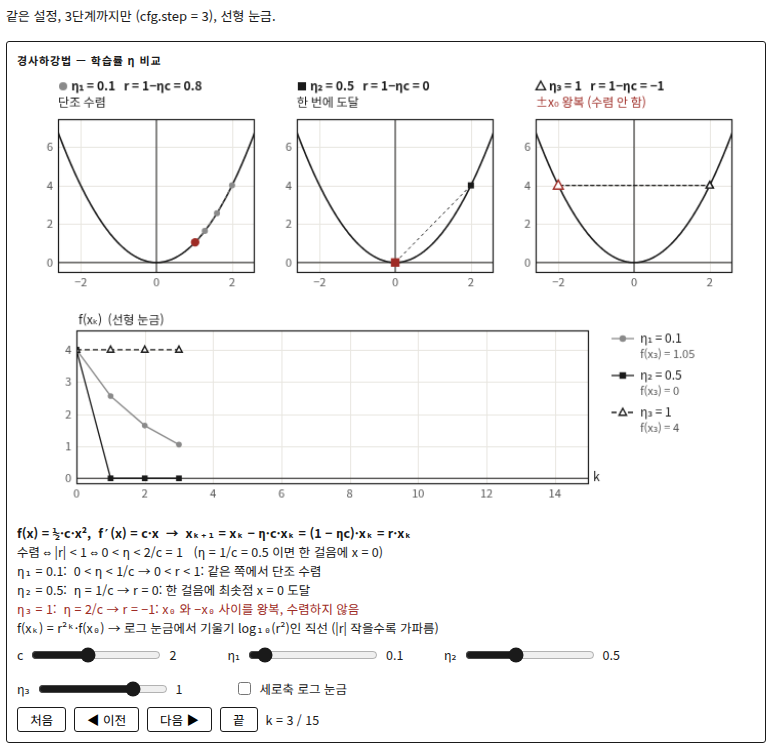
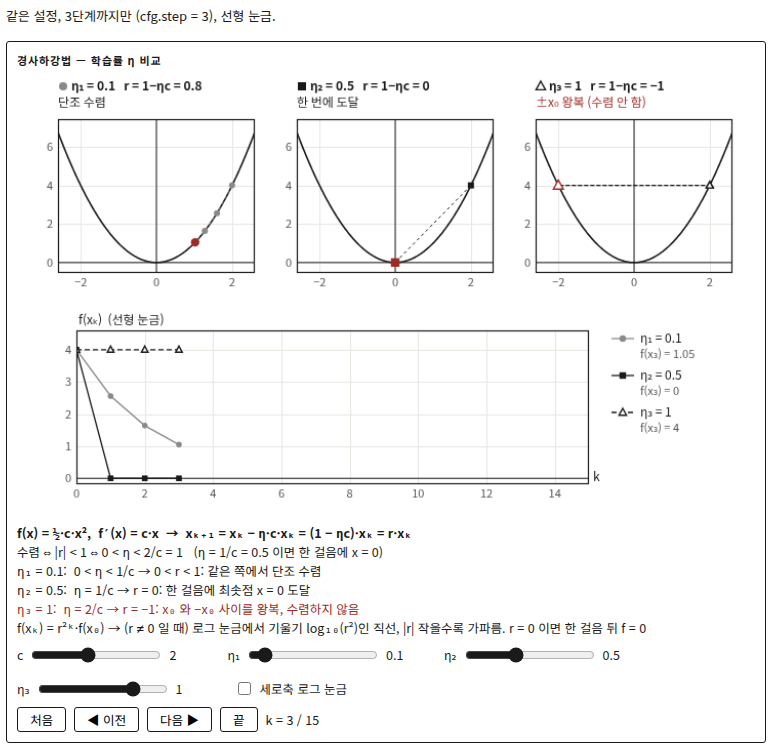
v6 extra B: review fixes (differentiability probe, quartic header, wording), report

Changed region(s): [[0.1554, 0.8302, 0.6528, 0.861], [0.6839, 0.8302, 0.8394, 0.861]]

diff --git a/assets/v6-extra-b.js b/assets/v6-extra-b.js
@@ -61,11 +61,12 @@ function checkExpr(src,vars){
 }
 /* ---- gradient descent ---- */
 /* iterate x_{k+1} = x_k - eta*df(x_k); stop when |x|>cap (diverged) or value undefined */
-function gd1(df,eta,x0,N,cap){
+function gd1(df,eta,x0,N,cap,f){
   var xs=[x0],status="ok",at=-1;
   for(var k=0;k<N;k++){
     var g=df(xs[k]),nx=xs[k]-eta*g;
     if(g!==g||nx!==nx){status="undef";at=k+1;break;}
+    if(f&&isFinite(nx)&&Math.abs(nx)<=cap){var fv=f(nx);if(fv!==fv){xs.push(nx);status="undef";at=k+1;break;}}
     if(!isFinite(nx)||Math.abs(nx)>cap){xs.push(nx);status="div";at=k+1;break;}
     xs.push(nx);
   }
@@ -110,23 +111,34 @@ function itersFor(rho,tol){
 function grad(f,a,b){
   var hx=1e-5*Math.max(1,Math.abs(a)),hy=1e-5*Math.max(1,Math.abs(b));
   var fx=(f(a+hx,b)-f(a-hx,b))/(2*hx),fy=(f(a,b+hy)-f(a,b-hy))/(2*hy);
-  /* one-sided check (kinks such as sqrt(x²+y²) at 0) */
-  var h1=1e-6*Math.max(1,Math.abs(a)),h2=1e-6*Math.max(1,Math.abs(b)),f0=f(a,b);
-  var xf=(f(a+h1,b)-f0)/h1,xb=(f0-f(a-h1,b))/h1,yf=(f(a,b+h2)-f0)/h2,yb=(f0-f(a,b-h2))/h2;
-  var kink=Math.abs(xf-xb)>1e-2*(1+Math.abs(xf)+Math.abs(xb))||Math.abs(yf-yb)>1e-2*(1+Math.abs(yf)+Math.abs(yb));
+  /* one-sided check (kinks such as |x| at 0): forward − backward quotient gap is ≈ h·f″ for
+     smooth f (halves with h) but stays O(1) at a kink (does not shrink) */
+  var f0=f(a,b);
+  function gap(dx,dy){return (f(a+dx,b+dy)-f0)/Math.hypot(dx,dy)-(f0-f(a-dx,b-dy))/Math.hypot(dx,dy);}
+  var h1=1e-6*Math.max(1,Math.abs(a)),h2=1e-6*Math.max(1,Math.abs(b));
+  var kink=persists(gap(h1,0),gap(h1/2,0),f0,h1)||persists(gap(0,h2),gap(0,h2/2),f0,h2);
   return {fx:fx,fy:fy,kink:kink};
+}
+/* an O(h) discrepancy should halve when h halves; a real one (kink) does not */
+function persists(e1,e2,f0,h){
+  if(e1!==e1||e2!==e2)return true;
+  var noise=1e-6+4e-15*Math.abs(f0)/h;
+  return Math.abs(e1)>noise&&Math.abs(e2)>0.75*Math.abs(e1);
 }
 function dirDeriv(fx,fy,th){return fx*Math.cos(th)+fy*Math.sin(th);}
 /* one-sided difference quotient [f(P+hu) - f(P)]/h (the definition, h small) */
 function oneSided(f,a,b,th,h){h=h||1e-6*Math.max(1,Math.abs(a),Math.abs(b));return (f(a+h*Math.cos(th),b+h*Math.sin(th))-f(a,b))/h;}
 /* differentiability probe: does grad·u match the one-sided quotient in 16 directions? */
 function diffCheck(f,a,b,fx,fy){
-  var n=Math.hypot(fx,fy),worst=0;
-  for(var i=0;i<16;i++){var t=i*Math.PI/8,q=oneSided(f,a,b,t);
-    if(q!==q)return {ok:false,worst:NaN};
-    worst=Math.max(worst,Math.abs(q-dirDeriv(fx,fy,t)));}
-  return {ok:worst<=2e-3*(1+n),worst:worst};
+  var h=1e-6*Math.max(1,Math.abs(a),Math.abs(b)),f0=f(a,b),worst=0,bad=false;
+  for(var i=0;i<16;i++){var t=i*Math.PI/8,g=dirDeriv(fx,fy,t);
+    var e1=oneSided(f,a,b,t,h)-g,e2=oneSided(f,a,b,t,h/2)-g;
+    if(e1!==e1||e2!==e2)return {ok:false,worst:NaN};
+    worst=Math.max(worst,Math.abs(e1));
+    if(persists(e1,e2,f0,h))bad=true;}
+  return {ok:!bad,worst:worst};
 }
+function stepH(a,b){return 1e-6*Math.max(1,Math.abs(a),Math.abs(b));}
 /* ---- quadratic form Q = a x² + 2b xy + c y², matrix [[a,b],[b,c]] ---- */
 function eig2(a,b,c){
   var m=(a+c)/2,R=Math.hypot(a-c,2*b)/2,det=a*c-b*b,l1,l2;
@@ -158,7 +170,7 @@ function angleBetween(u,v){
   return Math.atan2(Math.abs(u[0]*v[1]-u[1]*v[0]),dot(u,v));
 }
 return {fmt:fmt,snap:snap,sup:sup,niceTicks:niceTicks,checkExpr:checkExpr,gd1:gd1,classifyQuadLR:classifyQuadLR,
-  gd2:gd2,f2:f2,rates2:rates2,itersFor:itersFor,grad:grad,dirDeriv:dirDeriv,oneSided:oneSided,diffCheck:diffCheck,eig2:eig2,Qval:Qval,
+  gd2:gd2,f2:f2,rates2:rates2,itersFor:itersFor,grad:grad,dirDeriv:dirDeriv,oneSided:oneSided,diffCheck:diffCheck,stepH:stepH,eig2:eig2,Qval:Qval,
   classifyQ:classifyQ,det2:det2,apply2:apply2,dot:dot,proj:proj,angleBetween:angleBetween};
 })();
 /*CALC-END*/
@@ -303,6 +315,12 @@ var LONG={
   bounce:"η = 2/c → r = −1: x₀ 와 −x₀ 사이를 왕복, 수렴하지 않음",
   div:"η > 2/c → r < −1: |xₖ| = |r|ᵏ|x₀| 로 진동하며 발산",
   zero:"η = 0: xₖ = x₀ 그대로",neg:"η < 0: 기울기 방향(오르막)으로 이동해 발산",badc:"c ≤ 0 이면 최솟값이 없음"};
+function quarticHead(eta,x0){
+  if(!(eta>0))return eta===0?"η = 0: 움직이지 않음":"η < 0: 오르막으로 이동";
+  if(x0===0)return "x₀ = 0: 이미 최솟점";
+  var p=eta*x0*x0,tol=1e-9;
+  return "ηx₀² = "+fmt(p,3)+(Math.abs(p-2)<tol?" = 2 (|x₁| = |x₀|)":p<2?" < 2 (|x₁| < |x₀|)":" > 2 (|x₁| > |x₀|)");
+}
 function gd1d(el,cfg){
   var kind=cfg.fn==="quartic"?"quartic":(cfg.fn==="custom"||(cfg.fn==null&&typeof cfg.f==="string"))?"custom":"quad";
   var c=num(cfg.c,2,0.1,50);
@@ -337,7 +355,8 @@ function gd1d(el,cfg){
   var st=stateBox(el);
   var ctl=controls(el);
   var cS=null;
-  if(kind==="quad")cS=slider(ctl,"c ",0.5,Math.max(4,c),0.1,c,function(v){return fmt(v,2);},function(v){c=v;setFns();draw();});
+  if(kind==="quad")cS=slider(ctl,"c ",Math.min(0.5,c),Math.max(4,c),0.1,c,function(v){return fmt(v,2);},function(v){c=v;setFns();
+    var top=parseFloat((Math.max(2.6/c,etas[0],etas[1],etas[2])).toPrecision(3));eS.forEach(function(sl){sl.range(0,top);});draw();});
   var eS=etas.map(function(e,i){return slider(ctl,"η"+sub(i+1)+" ",0,parseFloat(etaTop.toPrecision(3)),0.005,e,function(v){return fmt(v,3);},function(v){etas[i]=v;draw();});});
   var lg=document.createElement("label");var cb=document.createElement("input");cb.type="checkbox";cb.checked=logy;
   lg.appendChild(cb);lg.appendChild(document.createTextNode(" 세로축 로그 눈금"));ctl.appendChild(lg);
@@ -353,7 +372,7 @@ function gd1d(el,cfg){
   function draw(){
     ctx.clearRect(0,0,W,cv.height);
     pos.textContent="k = "+k+" / "+N;bPrev.disabled=k===0;bNext.disabled=k===N;
-    var runs=etas.map(function(e){return calc.gd1(df,e,x0,N,CAP);});
+    var runs=etas.map(function(e){return calc.gd1(df,e,x0,N,CAP,f);});
     /* ---- top: three curve panels ---- */
     var Rx=Math.max(Math.abs(x0)*1.3,0.5);
     var xr=Array.isArray(cfg.xr)&&cfg.xr.length===2&&isFinite(cfg.xr[0])&&isFinite(cfg.xr[1])&&cfg.xr[1]>cfg.xr[0]?[+cfg.xr[0],+cfg.xr[1]]:[-Rx,Rx];
@@ -373,7 +392,7 @@ function gd1d(el,cfg){
       if(cl)v2=VERDICT[cl.kind];
       else if(run.status==="div")v2="발산 (k = "+run.at+"에서 |x| > 10⁶)";
       else if(run.status==="undef")v2="k = "+run.at+"에서 값 정의 안 됨";
-      else v2=kind==="quartic"?"ηx₀² = "+fmt(etas[j]*x0*x0,3)+(etas[j]*x0*x0<2&&etas[j]>0?" < 2":" ≥ 2"):"x"+sub(N)+" = "+fmt(run.xs[run.xs.length-1],4);
+      else v2=kind==="quartic"?quarticHead(etas[j],x0):"x"+sub(N)+" = "+fmt(run.xs[run.xs.length-1],4);
       var bad=(cl&&(cl.kind==="div"||cl.kind==="bounce"||cl.kind==="neg"))||run.status!=="ok";
       text(ctx,v2,R.x,32,{size:12,color:bad?RED:INK,halo:false});
       P.clip();
@@ -425,6 +444,7 @@ function gd1d(el,cfg){
       var pts=[];
       for(var s=0;s<=Math.min(k,r.xs.length-1);s++){
         var v=f(r.xs[s]),X=PB.px(s),Y;
+        if(v!==v)break;
         if(useLog){if(v>0&&isFinite(v))Y=PB.py(Math.log10(v));else if(v===0){Y=RB.y+RB.h-4;zeroNote=true;}else Y=-1e4;}
         else Y=isFinite(v)?PB.py(v):-1e4;
         if(Y<RB.y+3)pinned=true;
@@ -456,7 +476,7 @@ function gd1d(el,cfg){
       etas.forEach(function(e,j){var cl=calc.classifyQuadLR(c,e);var s="η"+sub(j+1)+" = "+fmt(e,3)+":  "+LONG[cl.kind];
         if(cl.kind==="mono"&&cl.r>=0.9)s+=" — 느림 (단계당 오차 ×"+fmt(cl.r,3)+")";
         L.push(cl.kind==="div"||cl.kind==="bounce"||cl.kind==="neg"?red(s):s);});
-      L.push("f(xₖ) = r²ᵏ·f(x₀) → 로그 눈금에서 기울기 log₁₀(r²)인 직선 (|r| 작을수록 가파름)");
+      L.push("f(xₖ) = r²ᵏ·f(x₀) → (r ≠ 0 일 때) 로그 눈금에서 기울기 log₁₀(r²)인 직선, |r| 작을수록 가파름. r = 0 이면 한 걸음 뒤 f = 0");
     }else if(kind==="quartic"){
       L.push(b(fLabel+",  "+dfLabel+"  →  xₖ₊₁ = xₖ(1 − η·xₖ²)"));
       L.push("|xₖ₊₁| < |xₖ| ⇔ 0 < η·xₖ² < 2.  기준이 xₖ에 따라 달라짐 — ‘η < 2/c’ 같은 고정 기준은 이차함수에서만 정확");
@@ -474,7 +494,7 @@ function gd1d(el,cfg){
   draw();return draw;
 }
 function gd2d(el,cfg,withHead){
-  if(withHead)sectionHead(el,"2차원: f(x, y) = ½(x² + κy²) — 조건수 κ가 크면 지그재그");
+  if(withHead)sectionHead(el,"2차원: f(x, y) = ½(x² + κy²) — ηκ > 1 이면 y 부호가 바뀌며 지그재그, κ가 크면 느림");
   var kappa=num(cfg.kappa,10,1,100);
   var st0=Array.isArray(cfg.start2d)?cfg.start2d:[];
   var X0=num(st0[0],4,-100,100),Y0=num(st0[1],1,-100,100);
@@ -605,18 +625,18 @@ mount("directional-derivative",function(el,cfg){
   button(ctl,"u = 접선 방향",function(){if(g.n>0){th=(Math.atan2(g.fy,g.fx)+Math.PI/2+2*Math.PI)%(2*Math.PI);tS.set(th/DEG);draw();}});
   function draw(){
     ctx.clearRect(0,0,W,cv.height);
-    var f0=F(a,bb),fx,fy,kink=false,mismatch=null;
+    var f0=F(a,bb),fx,fy,mismatch=null;
+    /* differentiability is judged from f itself (numeric gradient), never from config fx, fy */
+    var gn=calc.grad(F,a,bb),thr=1e-9*(1+Math.abs(f0));
+    var nfx=Math.abs(gn.fx)<thr?0:gn.fx,nfy=Math.abs(gn.fy)<thr?0:gn.fy;
     if(FX){fx=FX([a,bb]);fy=FY([a,bb]);
-      var gn=calc.grad(F,a,bb);kink=gn.kink;
-      if(isFinite(gn.fx)&&isFinite(gn.fy)&&Math.hypot(gn.fx-fx,gn.fy-fy)>1e-4*(1+Math.hypot(fx,fy)))mismatch=gn;}
-    else{var gr=calc.grad(F,a,bb);fx=gr.fx;fy=gr.fy;kink=gr.kink;}
-    var sc=1+Math.abs(f0);
-    fx=Math.abs(fx)<1e-7*sc?0:fx;fy=Math.abs(fy)<1e-7*sc?0:fy;
+      if(isFinite(gn.fx)&&isFinite(gn.fy)&&isFinite(fx)&&isFinite(fy)&&Math.hypot(gn.fx-fx,gn.fy-fy)>1e-4*(1+Math.hypot(fx,fy)))mismatch=gn;}
+    else{fx=nfx;fy=nfy;}
     var n=Math.hypot(fx,fy);g={fx:fx,fy:fy,n:n};
     var ok=isFinite(f0)&&isFinite(fx)&&isFinite(fy);
-    var ux=Math.cos(th),uy=Math.sin(th);
+    var ux=Math.cos(th),uy=Math.sin(th),hS=calc.stepH(a,bb),hTxt=fmt(hS,3);
     var nd=false;
-    if(ok){var dc=calc.diffCheck(F,a,bb,fx,fy);nd=kink||!dc.ok;}
+    if(ok&&isFinite(nfx)&&isFinite(nfy))nd=gn.kink||!calc.diffCheck(F,a,bb,nfx,nfy).ok;
     var D=ok?calc.snap(calc.dirDeriv(fx,fy,th),n):NaN;
     var Dq=ok?calc.oneSided(F,a,bb,th):NaN;
     /* left: vectors at P */
@@ -631,7 +651,7 @@ mount("directional-derivative",function(el,cfg){
     var best=0,bd=-1;for(var c8=0;c8<16;c8++){var ca=c8*Math.PI/8+Math.PI/16,md=7;
       busy.forEach(function(bq){var dd=Math.abs(Math.atan2(Math.sin(ca-bq),Math.cos(ca-bq)));md=Math.min(md,dd);});if(md>bd){bd=md;best=ca;}}
     text(ctx,"단위원",P.px(1.08*Math.cos(best)),P.py(1.08*Math.sin(best))+4,{size:11,color:GRAY,align:Math.cos(best)>=0?"left":"right"});
-    if(ok&&nd)text(ctx,"미분 불가능 → ∇f 화살표 생략",R.x+6,R.y+16,{size:11.5,color:RED});
+    if(ok&&nd)text(ctx,"미분 불가능해 보임 → ∇f 화살표 생략",R.x+6,R.y+16,{size:11.5,color:RED});
     if(ok&&!nd&&n>0){
       var tx=-fy/n,ty=fx/n,T=1.15*vmax;
       line(ctx,P.px(-T*tx),P.py(-T*ty),P.px(T*tx),P.py(T*ty),INK,1.2,[7,4]);
@@ -656,7 +676,7 @@ mount("directional-derivative",function(el,cfg){
     var RB={x:410,y:28,w:290,h:250};
     var A=ok&&n>0?n:1,qs=[];
     if(ok&&nd){A=0;for(var j=0;j<=360;j+=2){var qv=calc.oneSided(F,a,bb,j*DEG);qs.push(qv);if(isFinite(qv))A=Math.max(A,Math.abs(qv));}if(!(A>0))A=1;}
-    var P2=panel(ctx,RB,[0,360],[-1.45*A,1.45*A],{xticks:[0,90,180,270,360],xfmt:function(t){return t+"°";},ny:5,xlabel:"θ",ylabel:nd?"[f(P+hu) − f(P)]/h  (h = 10⁻⁶)":"D_u f (θ)"});
+    var P2=panel(ctx,RB,[0,360],[-1.45*A,1.45*A],{xticks:[0,90,180,270,360],xfmt:function(t){return t+"°";},ny:5,xlabel:"θ",ylabel:nd?"[f(P+hu) − f(P)]/h  (h = "+hTxt+")":"D_u f (θ)"});
     if(!ok){text(ctx,"이 점에서 f 또는 편도함수를 계산할 수 없습니다",RB.x+RB.w/2,RB.y+RB.h/2,{align:"center",color:RED});}
     else if(nd){
       P2.clip();ctx.strokeStyle=INK;ctx.lineWidth=1.8;ctx.beginPath();var pen=false;
@@ -684,19 +704,19 @@ mount("directional-derivative",function(el,cfg){
     var L=[];
     if(!ok){L.push(red("점 P에서 f(P) 또는 편도함수가 정의되지 않습니다 (정의역 밖?). a, b를 옮겨 보세요."));st.innerHTML=L.join("\n");return;}
     L.push(b("f(x, y) = "+esc(src))+",   P = ("+fmt(a,3)+", "+fmt(bb,3)+"),   f(P) = "+fmt(f0,4));
+    if(mismatch)L.push(red("주의: config의 fx, fy = ("+fmt(fx,4)+", "+fmt(fy,4)+") 가 f의 수치미분 ("+fmt(mismatch.fx,4)+", "+fmt(mismatch.fy,4)+")과 다릅니다. 식을 확인하세요."));
     if(nd){
-      L.push(red("이 점에서 f는 미분가능하지 않습니다 (수치 판정: 한쪽 차분이 서로 다르거나, 어떤 방향에서 [f(P+hu) − f(P)]/h ≠ ∇f·u)."));
-      L.push(red("따라서 D_u f = ∇f·u 공식을 쓸 수 없고 ∇f 그림은 생략합니다. 중심차분이 주는 값 ("+fmt(fx,4)+", "+fmt(fy,4)+")는 기울기가 아닙니다."));
-      L.push("정의대로 계산한 한쪽 방향 미분: [f(P + hu) − f(P)] / h = "+fmt(calc.snap(Dq,1),4)+"   (θ = "+fmt(th/DEG,1)+"°, h = 10⁻⁶) — 오른쪽 그래프");
+      L.push(red("이 점에서 f는 수치적으로 미분가능하지 않아 보입니다 (h를 반으로 줄여도 한쪽 차분의 어긋남이 줄지 않음)."));
+      L.push(red("그렇다면 D_u f = ∇f·u 공식을 쓸 수 없으므로 ∇f 그림은 생략합니다. 중심차분 값 ("+fmt(nfx,4)+", "+fmt(nfy,4)+")는 기울기로 해석하면 안 됩니다."));
+      L.push("정의대로 계산한 한쪽 방향 미분: [f(P + hu) − f(P)] / h = "+fmt(calc.snap(Dq,1),4)+"   (θ = "+fmt(th/DEG,1)+"°, h = "+hTxt+") — 오른쪽 그래프");
       st.innerHTML=L.join("\n");return;
     }
     L.push("∇f(P) = (f_x, f_y) = ("+fmt(fx,4)+", "+fmt(fy,4)+"),   |∇f| = "+fmt(n,4)+(FX?"   (config의 fx, fy 사용)":"   (중심차분 수치미분)"));
     L.push("u = (cos θ, sin θ) = ("+fmt(calc.snap(ux,1),4)+", "+fmt(calc.snap(uy,1),4)+")");
     L.push(b("D_u f = f_x cos θ + f_y sin θ = "+fmt(D,4))+(n>0?"  = |∇f| cos(θ − θ_∇),  θ_∇ = "+fmt(((Math.atan2(fy,fx)/DEG)+360)%360,2)+"°":""));
-    L.push("검산 (정의): [f(P + hu) − f(P)] / h = "+fmt(Math.round(Dq*1e4)/1e4,4)+"   (h = 10⁻⁶, 오차 O(h))");
+    L.push("검산 (정의): [f(P + hu) − f(P)] / h = "+fmt(Math.round(Dq*1e4)/1e4,4)+"   (h = "+hTxt+", 오차 O(h))");
     if(n===0)L.push(red("∇f(P) = 0 (임계점): 모든 방향에서 D_u f = 0. ‘가장 가파른 방향’이 없습니다."));
     else L.push("최대 증가 방향 = ∇f 방향 (D_u f = |∇f|), 최대 감소 = −∇f 방향, ∇f ⟂ u 이면 D_u f = 0");
-    if(mismatch)L.push(red("주의: config의 fx, fy가 수치미분 ("+fmt(mismatch.fx,4)+", "+fmt(mismatch.fy,4)+")과 다릅니다."));
     st.innerHTML=L.join("\n");
   }
   draw();return draw;
@@ -803,10 +823,10 @@ mount("linear-map",function(el,cfg){
   var m=[1,0.5,0.3,1];
   if(Array.isArray(cfg.m)&&cfg.m.length===2&&Array.isArray(cfg.m[0])&&Array.isArray(cfg.m[1]))
     m=[num(cfg.m[0][0],1,-3,3),num(cfg.m[0][1],0,-3,3),num(cfg.m[1][0],0,-3,3),num(cfg.m[1][1],1,-3,3)];
-  else if(typeof cfg.preset==="string"&&cfg.preset in PRE)m=cfg.preset==="rotation"?rot(ang):PRE[cfg.preset].slice();
+  else if(typeof cfg.preset==="string"&&Object.prototype.hasOwnProperty.call(PRE,cfg.preset))m=cfg.preset==="rotation"?rot(ang):PRE[cfg.preset].slice();
   var cv=V6.canvas(el,400),ctx=cv.getContext("2d"),W=cv.width;
   var st=stateBox(el),ctl=controls(el);
-  var names=["p","q","r","s"],S=names.map(function(nm,i){return slider(ctl,nm+" ",-2,2,0.05,m[i],function(v){return fmt(v,3);},function(v){m[i]=v;draw();});});
+  var names=["p","q","r","s"],S=names.map(function(nm,i){return slider(ctl,nm+" ",-3,3,0.05,m[i],function(v){return fmt(v,3);},function(v){m[i]=v;draw();});});
   var pre=controls(el);
   function setM(v){m=v;S.forEach(function(s,i){s.set(m[i]);});draw();}
   button(pre,"항등",function(){setM([1,0,0,1]);});
@@ -896,9 +916,10 @@ mount("dot-product",function(el,cfg){
   V6.title(el,cfg.title||"내적 u·v = |u||v| cos θ, 정사영, 코시–슈바르츠 부등식");
   function polar(vec,len,ang,dl,da){
     if(Array.isArray(vec)&&vec.length===2){var x=num(vec[0],NaN),y=num(vec[1],NaN);
-      if(isFinite(x)&&isFinite(y)){var L=Math.min(Math.hypot(x,y),3);return [L,L>0?Math.atan2(y,x)/DEG:da];}}
+      if(isFinite(x)&&isFinite(y)){var L=Math.min(Math.hypot(x,y),3);if(Math.hypot(x,y)>3)clipped=true;return [L,L>0?Math.atan2(y,x)/DEG:da];}}
     return [num(len,dl,0,3),num(ang,da,-720,720)];
   }
+  var clipped=false;
   var U=polar(cfg.u,cfg.lenU,cfg.angU,2.5,15),V=polar(cfg.v,cfg.lenV,cfg.angV,2,65);
   U[1]=(U[1]%360+360)%360;V[1]=(V[1]%360+360)%360;
   var cv=V6.canvas(el,360),ctx=cv.getContext("2d"),W=cv.width;
@@ -959,6 +980,7 @@ mount("dot-product",function(el,cfg){
       L.push("직교 성분 v − proj_u v = ("+fmt(calc.snap(v[0]-pr[0],nv),3)+", "+fmt(calc.snap(v[1]-pr[1],nv),3)+"),  u와의 내적 = "+fmt(calc.snap(calc.dot(u,[v[0]-pr[0],v[1]-pr[1]]),nu*nv),3)+" (항상 0)");}
     else L.push(red("u = 0: proj_u v = (u·v/|u|²)u 는 |u|² = 0 으로 나누게 되어 정의되지 않습니다. θ도 정의되지 않음."));
     if(nu>0&&nv===0)L.push("v = 0: u·v = 0, proj_u v = 0, θ는 정의되지 않음");
+    if(clipped)L.push(red("config 벡터의 길이가 3을 넘어 길이 3으로 줄였습니다 (방향은 유지)."));
     st.innerHTML=L.join("\n");
   }
   /* dragging the tips */

diff --git a/demo-b.html b/demo-b.html
@@ -47,6 +47,8 @@ code{font-size:12px}
 <div class="v6-widget" data-widget="directional-derivative" data-config='{"f":"sqrt(x*x + y*y)","a":0,"b":0,"theta":0}'></div></div>
 <div class="demo" id="dd-kink2"><p>편도함수는 있지만 미분 불가능: f = sqrt(abs(x*y)), P = (0, 0) — f_x = f_y = 0 이지만 대각선 방향 한쪽 미분은 1/√2.</p>
 <div class="v6-widget" data-widget="directional-derivative" data-config='{"f":"sqrt(abs(x*y))","a":0,"b":0,"theta":45}'></div></div>
+<div class="demo" id="dd-mismatch"><p>config 편도함수에 오타 (fy = 3*y, 실제는 6*y): 경고만 내고 미분가능성 판정은 f 자체로.</p>
+<div class="v6-widget" data-widget="directional-derivative" data-config='{"f":"x*x + 3*y*y","fx":"2*x","fy":"3*y","a":1,"b":0.5,"theta":30}'></div></div>
 <div class="demo" id="dd-big"><p>|∇f| 가 큰 경우 (축소 표시): f = 5*x*y + y*y*y, P = (1, 1).</p>
 <div class="v6-widget" data-widget="directional-derivative" data-config='{"f":"5*x*y + y*y*y","a":1,"b":1,"theta":120}'></div></div>
 

diff --git a/verify/b-REPORT.md b/verify/b-REPORT.md
@@ -1,0 +1,96 @@
+# v6 위젯 세트 B — 보고서 (브랜치 `v6x-claude-b`)
+
+파일은 `assets/v6-extra-b.js`, `demo-b.html`, `verify/` 세 곳에 있습니다. 기존 파일은 수정하지 않았습니다.
+로드 순서는 `<script src="assets/v6.js"></script><script src="assets/v6-extra-b.js"></script>`입니다.
+데모에서 위젯 하나만 보려면 `demo-b.html?only=<아이디>`를 엽니다(예: `?only=qf-indef`).
+
+## 실제 API 확인 결과 (지시서 설명과 다른 점)
+- `V6.register / makeFn / axes / canvas / title / INK / RED / GRID`는 지시서 설명대로 존재합니다.
+- `V6.axes`는 캔버스 전체에 8등분 격자와 0축만 그리고 **눈금 숫자는 그리지 않습니다.** 패널 여러 개와 숫자 라벨이 필요해서, 이 파일 안에 `panel()`(1·2·5 단위 눈금, 숫자 라벨, 클리핑)을 따로 두었습니다. 색은 `V6.INK/RED/GRID`를 그대로 씁니다.
+- `makeFn`은 `new Function` 기반이라 `^`를 XOR로 조용히 계산합니다. 그래서 위젯 쪽 `checkExpr`에서 다음을 미리 거부하고 한국어 메시지를 띄웁니다.
+  - `^`
+  - 허용되지 않은 문자
+  - 화이트리스트 밖의 이름(예: `alert`)
+  - 문법 오류
+- v6.js의 `boot()`는 JSON이 잘못된 config를 **조용히 건너뜁니다.** extra-b가 부팅 뒤에 한 번 더 훑어서, 자기 위젯 이름이면서 JSON이 잘못된 요소에 오류 문구를 넣습니다. v6.js가 extra-b보다 먼저 부팅을 끝낸 경우(늦게 로드된 경우)에도 직접 마운트합니다.
+- **현재 레포에서 v6 위젯을 실제로 쓰는 HTML 페이지는 하나도 없습니다**(`grep v6-widget` 결과 0건). 그래서 데모 페이지는 v6.css, v6.js와 hw5 폰트만 불러와서 만들었습니다.
+- 레지스트리 이름은 `gd-lr, directional-derivative, quadratic-form, linear-map, dot-product`입니다. v6.js의 `slider-plot, stepthrough`와 겹치지 않고, V6 객체에 새 속성도 노출하지 않습니다(vm 검사로 확인).
+
+## 위젯별 기능과 수학 내용
+1. **gd-lr**
+   - 1D 프리셋은 세 가지입니다: ½cx², x⁴/4, 사용자 정의 f(f′는 config로 주거나 중심차분).
+   - η 세 개를 각 패널에서 곡선 위 경로로 보여 주고, 아래에 f(xₖ)–k 그래프(로그/선형 전환)를 둡니다.
+   - 이차함수는 r = 1−ηc로 분류합니다: 단조 수렴 / η=1/c 한 걸음 / 진동 수렴 / η=2/c 왕복 / 발산. 수렴 ⇔ 0<η<2/c를 표시합니다.
+   - x⁴/4는 |xₖ₊₁|<|xₖ| ⇔ 0<ηxₖ²<2이고, f″(0)=0이라 오차가 ≈1/√(2ηk)로 줄어든다는 점을 표시합니다(수치 검증함).
+   - 사용자 정의 f에는 판정 문구를 붙이지 않고 "해석적 판정 없음"이라고만 씁니다.
+   - 2D f=½(x²+κy²)
+     - (x,y) 경로를 같은 축척으로 그리고, 해석적 타원 x²+κy²=2f₀ 및 현재 f 높이의 타원을 겹칩니다. 등고선 알고리즘은 쓰지 않습니다.
+     - f(xₖ)–k 로그 그래프에 상한 ρ²ᵏf₀를 점선으로 함께 그립니다.
+     - 표시 항목: r_x=1−η, r_y=1−ηκ, ρ=max(|r_x|,|r_y|), 수렴 ⇔ η<2/κ, η*=2/(1+κ), ρ*=(κ−1)/(κ+1), 10⁻⁶까지 필요한 k(상한 기준).
+     - η는 η* 모드와 s·(2/κ) 수동 모드 중에서 고릅니다.
+   - 단계 버튼이 있고, 초기 단계는 `step`, `step2d`로 지정합니다.
+2. **directional-derivative**
+   - 왼쪽: P를 원점으로 놓고 ∇f, u, 투영 (∇f·u)u, "D_u f=0 방향(등위선 접선)" 점선을 그립니다. 접선은 직선만 그리고 등고선은 그리지 않습니다. |∇f|>3이면 축소해서 그리고 배율을 표시합니다.
+   - 오른쪽: D_u f(θ) 사인곡선에 최대 |∇f|(∇f 방향), 최소, 0(접선 방향)을 표시합니다.
+   - 정의식 [f(P+hu)−f(P)]/h로 검산합니다.
+   - ∇f=0이면 "임계점, 최대 증가 방향 없음"으로 표시합니다.
+   - 미분 불가능 판정
+     - h와 h/2에서 한쪽 차분의 어긋남이 줄어들지 않으면 "수치적으로 미분불가능해 보임"으로 표시합니다.
+     - 그 경우 ∇f 그림을 생략하고, 정의대로 계산한 한쪽 방향미분 그래프를 대신 보여 줍니다.
+     - 예: √(x²+y²)는 모든 방향에서 1이고, √|xy|는 f_x=f_y=0인데도 45°에서 1/√2입니다.
+   - config의 fx, fy가 f의 수치미분과 다르면 경고합니다. 미분가능성 판정에는 config 값을 쓰지 않습니다.
+3. **quadratic-form**
+   - λ=((a+c)∓√((a−c)²+4b²))/2를 계산합니다. 상쇄 오차를 피하려고 λ₁=det/λ₂ 형태를 씁니다.
+   - 고유벡터 방향은 θ₂=½atan2(2b,a−c)(최댓값 방향)으로 구합니다.
+   - 판정은 양/음정부호, 부정부호, 양/음의 준정부호, 영 형식 중 하나입니다. 2계 도함수 판정(a=f_xx, b=f_xy, c=f_yy, D=ac−b²)과 연결해서, D=0이면 판정 불가이고 x⁴+y²(극소)와 x³+y²(극값 아님) 예를 보여 줍니다.
+   - 오른쪽 Q(cosθ,sinθ) 그래프에서 min=λ₁, max=λ₂를 표시합니다(Rayleigh). 단위원은 Q의 부호에 따라 색을 칠합니다.
+   - b=0이면 "이미 대각", λ₁=λ₂이면 "H=λI, 모든 방향이 고유벡터"라는 문구가 붙습니다.
+4. **linear-map**
+   - p, q, r, s 슬라이더(±3)와 프리셋(항등, 회전 30°, 전단, x축 반사, 늘이기, 특이)을 제공합니다.
+   - 단위 격자의 상, 단위정사각형의 상(평행사변형), Ae₁·Ae₂(=1열·2열), e₁→e₂ 회전 방향 화살표를 그립니다. det<0이면 빨간색 시계 방향으로 바뀝니다.
+   - 넓이 막대로 1과 |det|를 비교합니다.
+   - det=0이면 "열이 평행 → 직선으로 납작, 역행렬 없음"을, 영행렬이면 "한 점"을 표시합니다.
+5. **dot-product**
+   - |u|, 각도, |v|, 각도를 슬라이더로 바꾸거나 화살표 끝을 드래그합니다.
+   - u·v = u₁v₁+u₂v₂ = |u||v|cosθ, proj_u v, 스칼라 성분, 직교 성분(u와의 내적 0), 직각 표시를 보여 줍니다.
+   - 코시–슈바르츠 막대로 |u·v|와 |u||v|를 비교하고 등호 조건(평행)을 표시합니다. 예각/직교/둔각 판정이 붙습니다.
+   - u=0이면 proj와 θ는 정의되지 않는다고 표시합니다.
+
+## 검증
+- **수치 검증**: `verify/b-numeric.mjs` → `verify/b-numeric.log`, **236/236 PASS**.
+  - 위젯의 CALC 블록만 `node:vm`으로 로드하고, 비교 대상은 같은 파일에 따로 작성한 공식입니다. V6에는 아무것도 노출하지 않습니다.
+  - GD 검사: 닫힌 형태 (1−ηc)ᵏx₀, 분류, 발산 단계, x⁴ 반복, 1/√(2ηk) 점근(2% 이내), 2D 닫힌 형태, 모든 k에서 f_k ≤ ρ²ᵏf₀, 격자 탐색으로 찾은 argmin ρ = 2/11, 2/κ 경계, 필요 반복 수.
+  - 방향도함수 검사: 해석 기울기와 비교(1e-7), max_θ D_u f = |∇f|, 미분가능성 판정 13건(큰 곡률 3000x², 10⁴(x²+y²), sin 50x는 오탐 없음; √, √|xy|, |x|+y, |x−1|은 감지).
+  - 이차형식 검사: 행렬 12개에 대해 독립 고유값 공식 비교, 단위원 20만 점 격자 min/max = λ₁/λ₂, ‖Hv−λv‖=0, 판정이 D 판정과 일치하는지.
+  - 선형사상 검사: det = 신발끈 공식 부호 넓이.
+  - 내적 검사: 난수 2만 쌍으로 CS 부등식, 직교성, arccos와 비교.
+  - 기타: 식 검사기, 숫자 포맷, 등록 이름 충돌.
+- **렌더링 검증**: `verify/b-shoot.mjs`가 node 22 내장 WebSocket과 CDP로 /usr/bin/chromium-browser 헤드리스를 직접 제어합니다(puppeteer 없음).
+  - 데모 30개와 인터랙션 6개(버튼 클릭, 슬라이더, 포인터 드래그; `verify/b-interact.sh`)를 `verify/shots/*.png`로 찍었습니다.
+  - 콘솔 error/warning과 예외를 수집했고 결과는 **전부 clean**입니다(`verify/b-shoot.log`).
+  - 모든 PNG를 직접 열어 보고 겹침과 잘림을 고쳤습니다.
+- **적대적 리뷰**: 독립 서브에이전트가 리뷰했고, 지적 사항은 모두 반영했습니다.
+  - 미분가능성 오탐(곡률 큰 함수, config 기울기 오타)
+  - x⁴ 헤더 부등호(η≤0, x₀=0)
+  - 큰 상수가 기울기를 0으로 지우던 문제
+  - 표시되는 h 값
+  - "κ 크면 지그재그" 과장
+  - r=0일 때 "직선" 문구
+  - 정의역 이탈 시 NaN 표시
+  - c 슬라이더를 바꿀 때 η 범위
+  - 프로토타입 키 preset
+  - config 값 잘림 고지
+
+## 한계 / 불확실한 점 (솔직하게)
+- **미분가능성 판정은 수치 휴리스틱입니다.**
+  - h≈10⁻⁶에서 한쪽 차분의 어긋남이 h를 반으로 줄여도 줄지 않으면 "미분불가능해 보임"으로 판정합니다. 그래서 문구도 단정하지 않습니다.
+  - 꺾임이 10⁻⁶보다 가까이 있는 점이나 매우 빠르게 진동하는 함수에서는 틀릴 수 있습니다.
+  - 편도함수가 존재하지만 미분 불가능한 경우는 16방향만 검사합니다.
+- **중심차분 기울기의 정확도**: 상대오차는 대략 1e-7 수준입니다. |f|가 매우 크면(≈10⁸) 표시값 끝자리에 잡음이 남습니다.
+- **gd-lr 사용자 정의 f**: 수치 반복 결과만 보여 주고 수렴 판정은 하지 않습니다. N단계 뒤 값이 작아 보여도 수렴을 보장하지 않습니다.
+- **2D GD**: κ는 1~100으로 제한했습니다(κ<1 입력은 1로 올림). "필요한 k"는 상한 ρ²ᵏ 기준이라 충분조건이고 최소값은 아닙니다.
+- **문구 출처**: Lax & Terrell 교재 원문과 문구·기호를 대조하지 않았습니다. 표준 정의로 작성했습니다(예: Rayleigh 몫, D=ac−b² 표기).
+- **스크린샷 범위**: 800px 폭 데스크톱에서만 확인했습니다. 모바일 폭은 확인하지 않았습니다. 캔버스는 720px 고정 해상도를 축소해서 쓰므로 hi-DPI 화면에서는 글자가 약간 흐릴 수 있습니다.
+- **폰트**: hw5/fonts의 Noto Sans KR woff2가 부분집합일 수 있습니다. 위첨자·아래첨자(ₖ, ⁻⁶ 등)는 브라우저 대체 글꼴로 렌더링될 수 있습니다. 폰트 로드 후 한 번 다시 그리도록 해 두었습니다.
+- **config 범위 처리**: 슬라이더 범위를 벗어난 config 값은 범위 안으로 잘립니다. 내적 위젯은 벡터 길이가 3을 넘으면 이를 고지합니다. 다른 위젯은 조용히 기본값이나 경계값으로 바꿉니다(예: quadratic-form의 `"a":"abc"` → 기본값).
+- **커밋 단위**: 위젯별로 따로 커밋하지 않았습니다. 다섯 개를 함께 작성해서 첫 커밋 하나로 묶었고, 리뷰 수정은 두 번째 커밋입니다.
